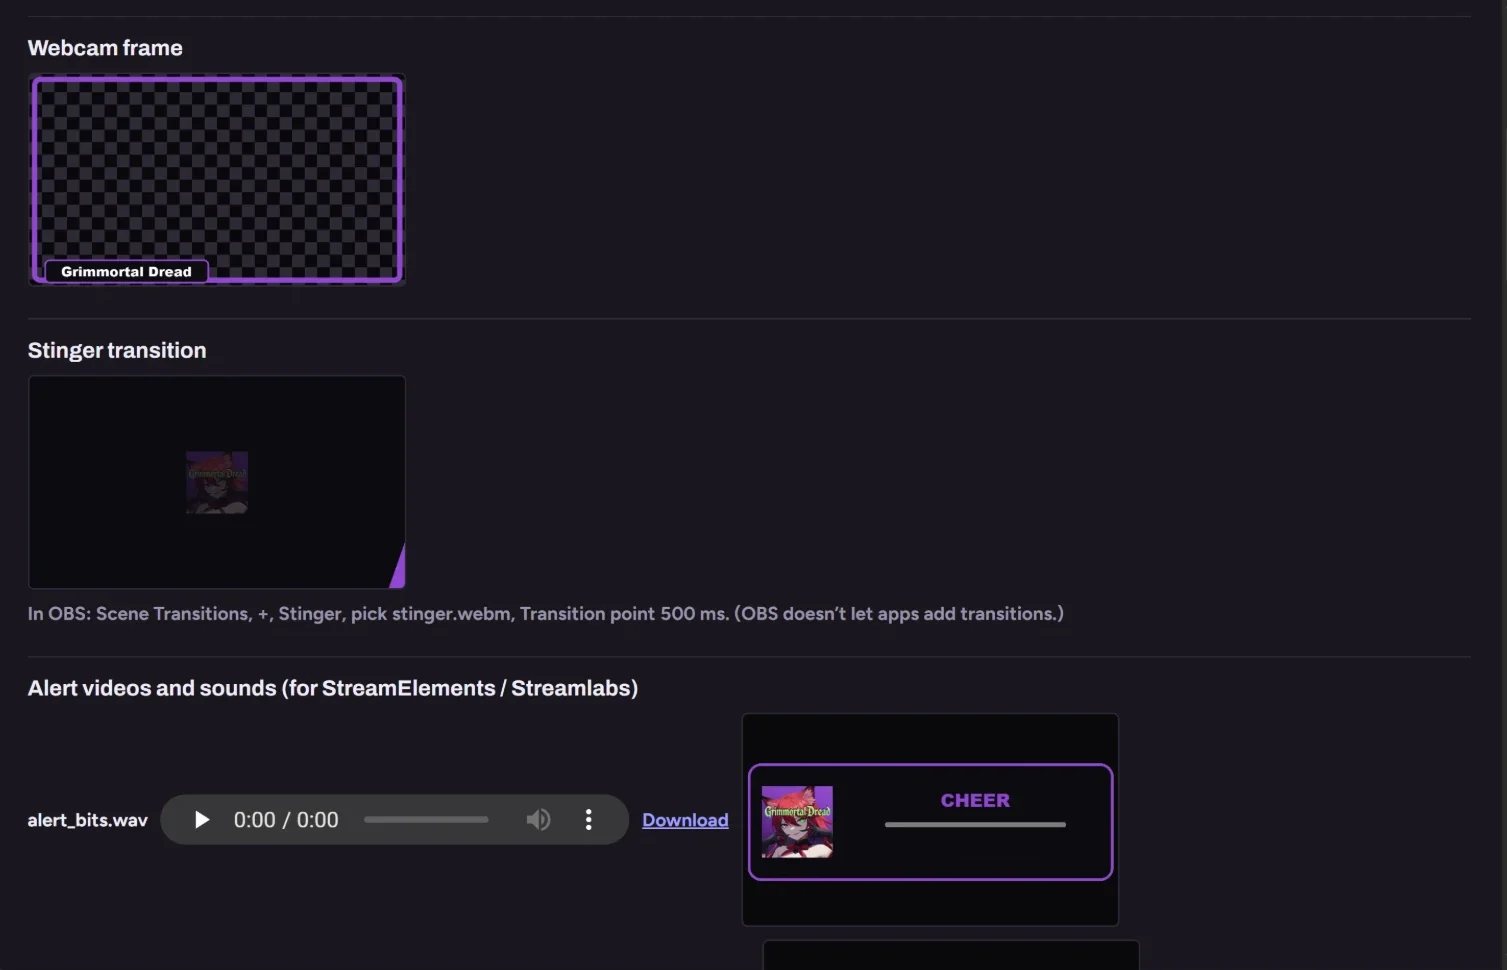
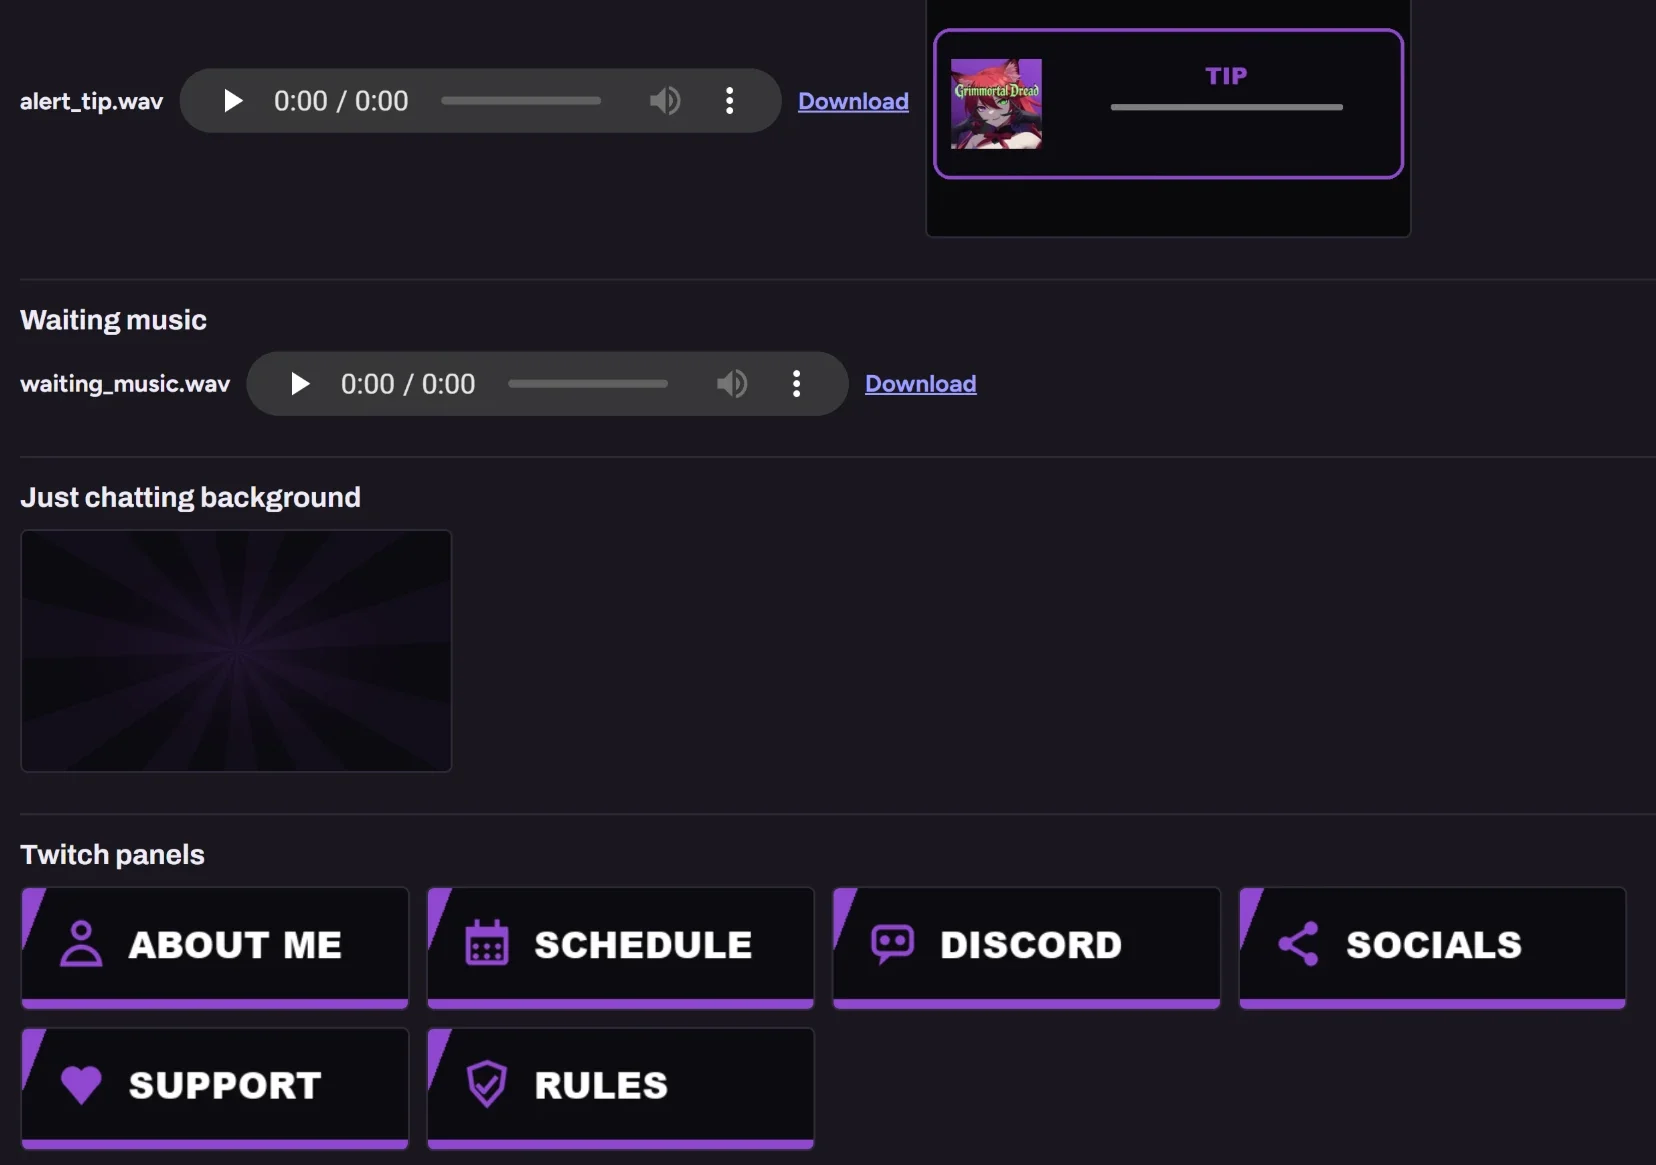
Site: stream pack screenshot with the alert, waiting music, background and Twitch panels
Claude-Session: https://claude.ai/code/session_01SyNPqG2rTQsjzLdehaarxC

diff --git a/features.html b/features.html
@@ -66,7 +66,7 @@
           <p>One click makes starting soon, be right back and thanks for watching screens, each with a looping version. Add to OBS sets them up as their own scenes and leaves yours alone.</p>
           <ul><li>A webcam frame with your name on it</li><li>Twitch panels: About, Schedule, Discord, Socials and more</li><li>Emotes and sub badges in your colours</li></ul>
         </div>
-        <figure class="shot reveal" data-shot="shots/stream-pack.webp"><img data-shot-img src="shots/stream-pack.webp" alt="The stream pack: starting soon, BRB and ending screens, panels, emotes and badges." loading="lazy"></figure>
+        <figure class="shot reveal" data-shot="shots/stream-pack.webp"><img data-shot-img src="shots/stream-pack.webp" alt="The stream pack: a tip alert with its sound, waiting music, a Just Chatting background and Twitch panels in your colours." loading="lazy"></figure>
       </div>
       <div class="scene-row flip">
         <div class="copy reveal">
